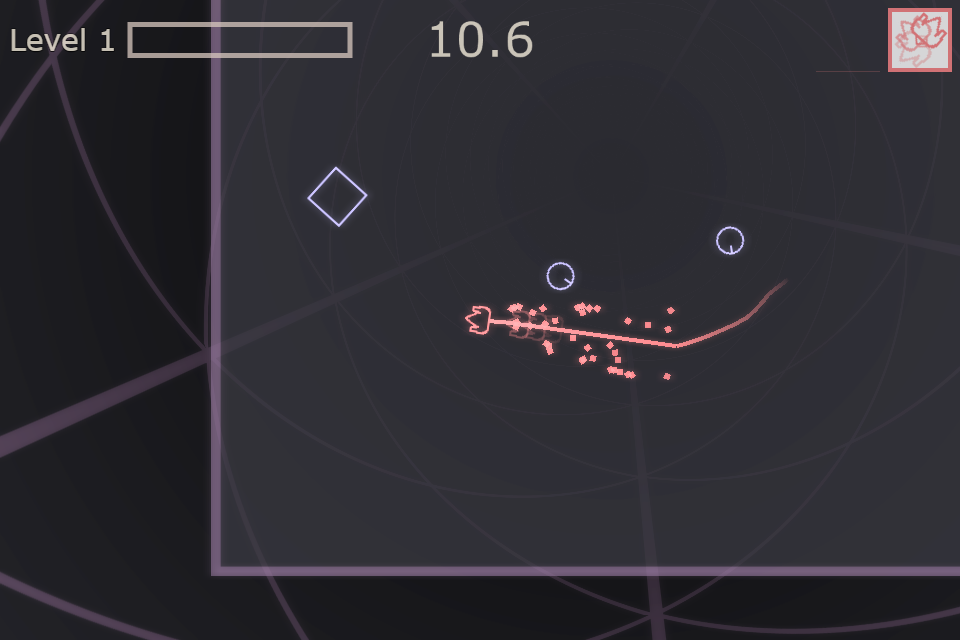
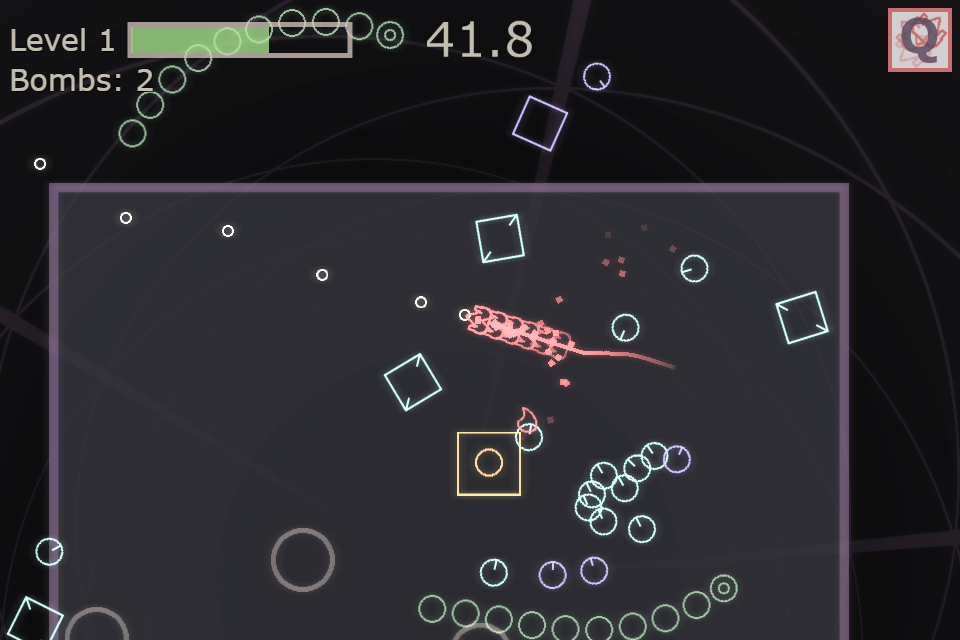
Updated screenshots

diff --git a/README.md b/README.md
@@ -5,7 +5,7 @@ Teddy's Inferno is a top-down shooter game built using [Phaser 3.55.2](https://p
 You can play Teddy's Inferno on itch.io! A link will be added when it is available.
 
 # Game Overview
-![MainGame](screenshots/chaotic.png?raw=true)
+![MainGame](screenshots/boost.png?raw=true)
 
 Teddy's Inferno is a top-down shooter that faces the player with an increasingly-frantic endless wave of enemies. The player can use a stream of bullets or slower blasts of bullets to defeat enemies, which will drop upgrade gems when destroyed. The player can collect these gems to upgrade their weapon, and eventually convert those gems into bombs that can save the player in tough situations. Gems will float to the player when they are not firing their weapon.
 
